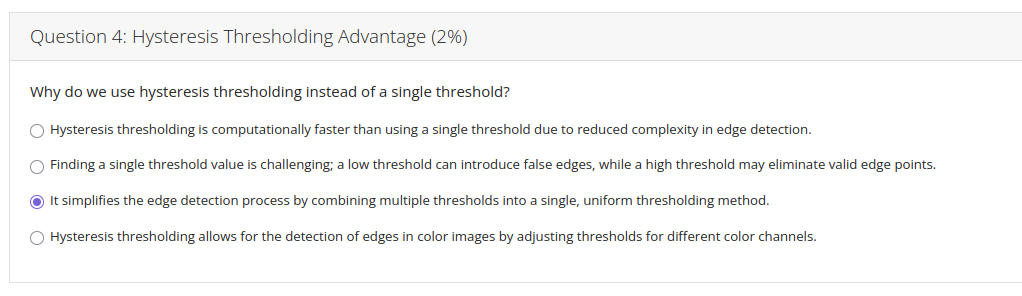
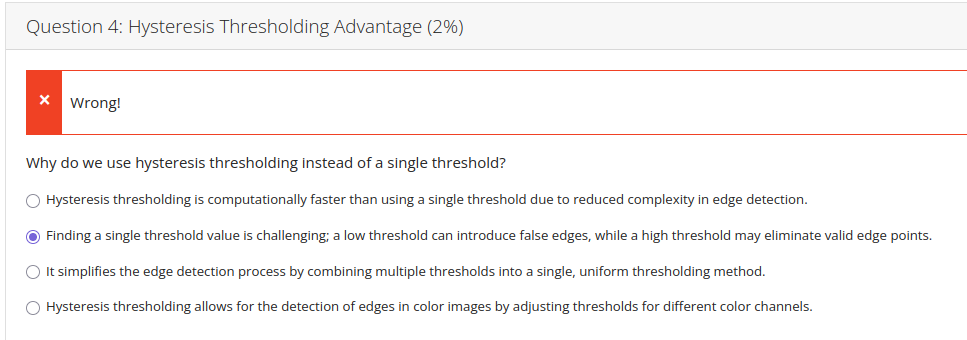
Questions 4 & 5 fixed

diff --git a/Assignment 3/q5.py b/Assignment 3/q5.py
@@ -12,7 +12,7 @@ B = [
 [1],
 [1]] 
 
-dilated_A =  [  [1, 1, 1, 1, 1, 1, 1],
+dilated_A =  [  [1, 0, 1, 1, 1, 0, 1],
                 [1, 1, 1, 1, 1, 1, 1],
                 [1, 1, 1, 1, 1, 1, 1],
                 [1, 1, 1, 1, 1, 1, 1],
